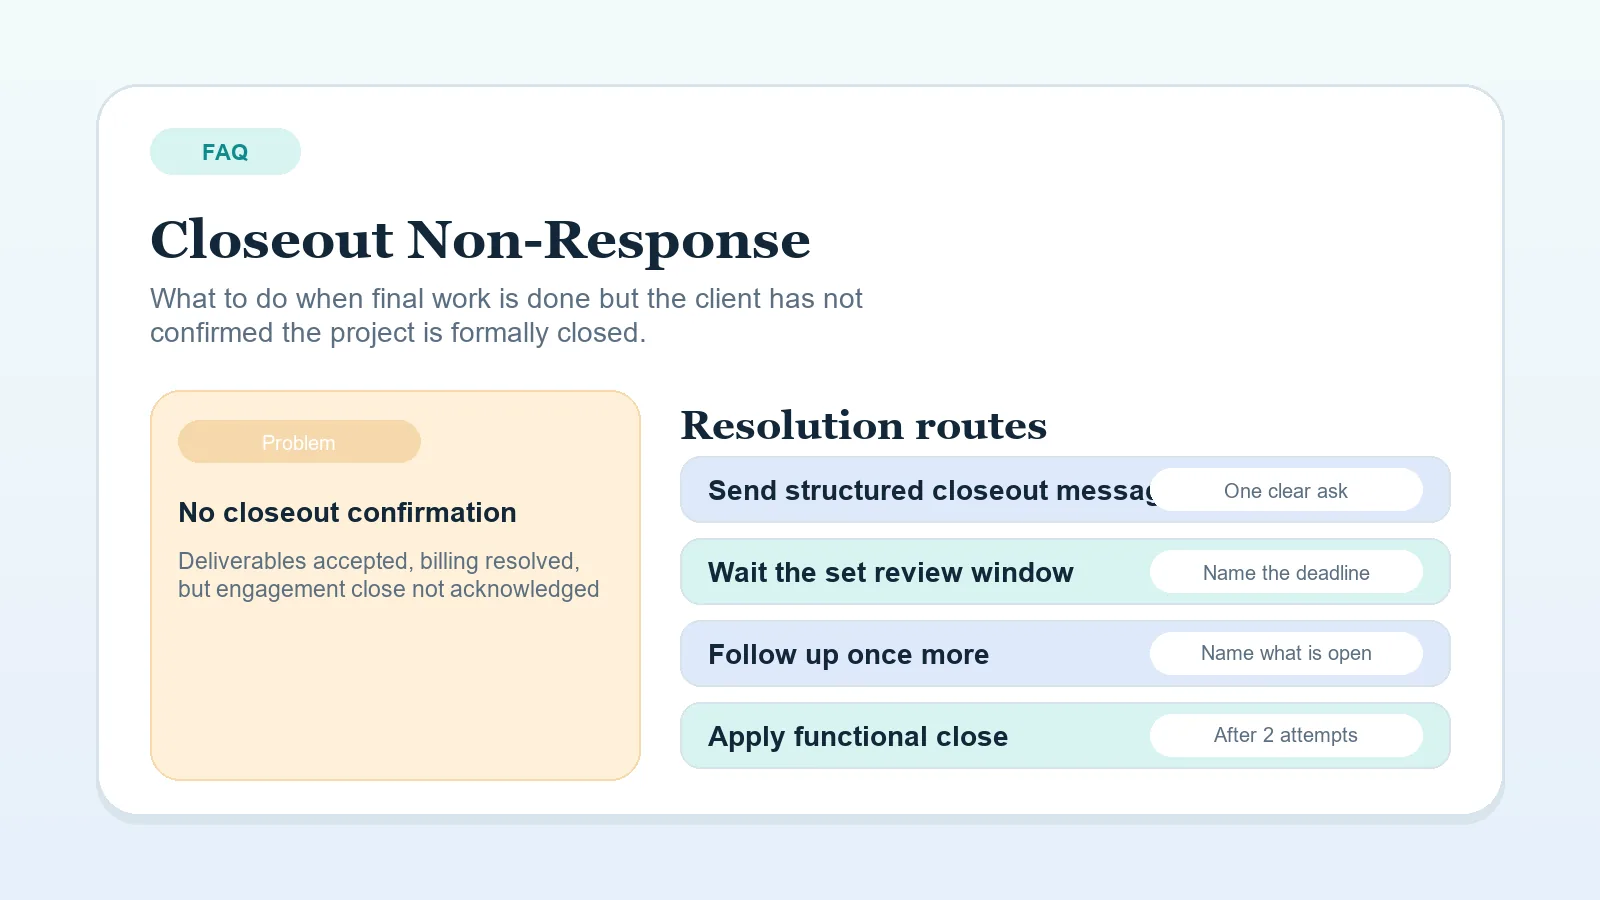
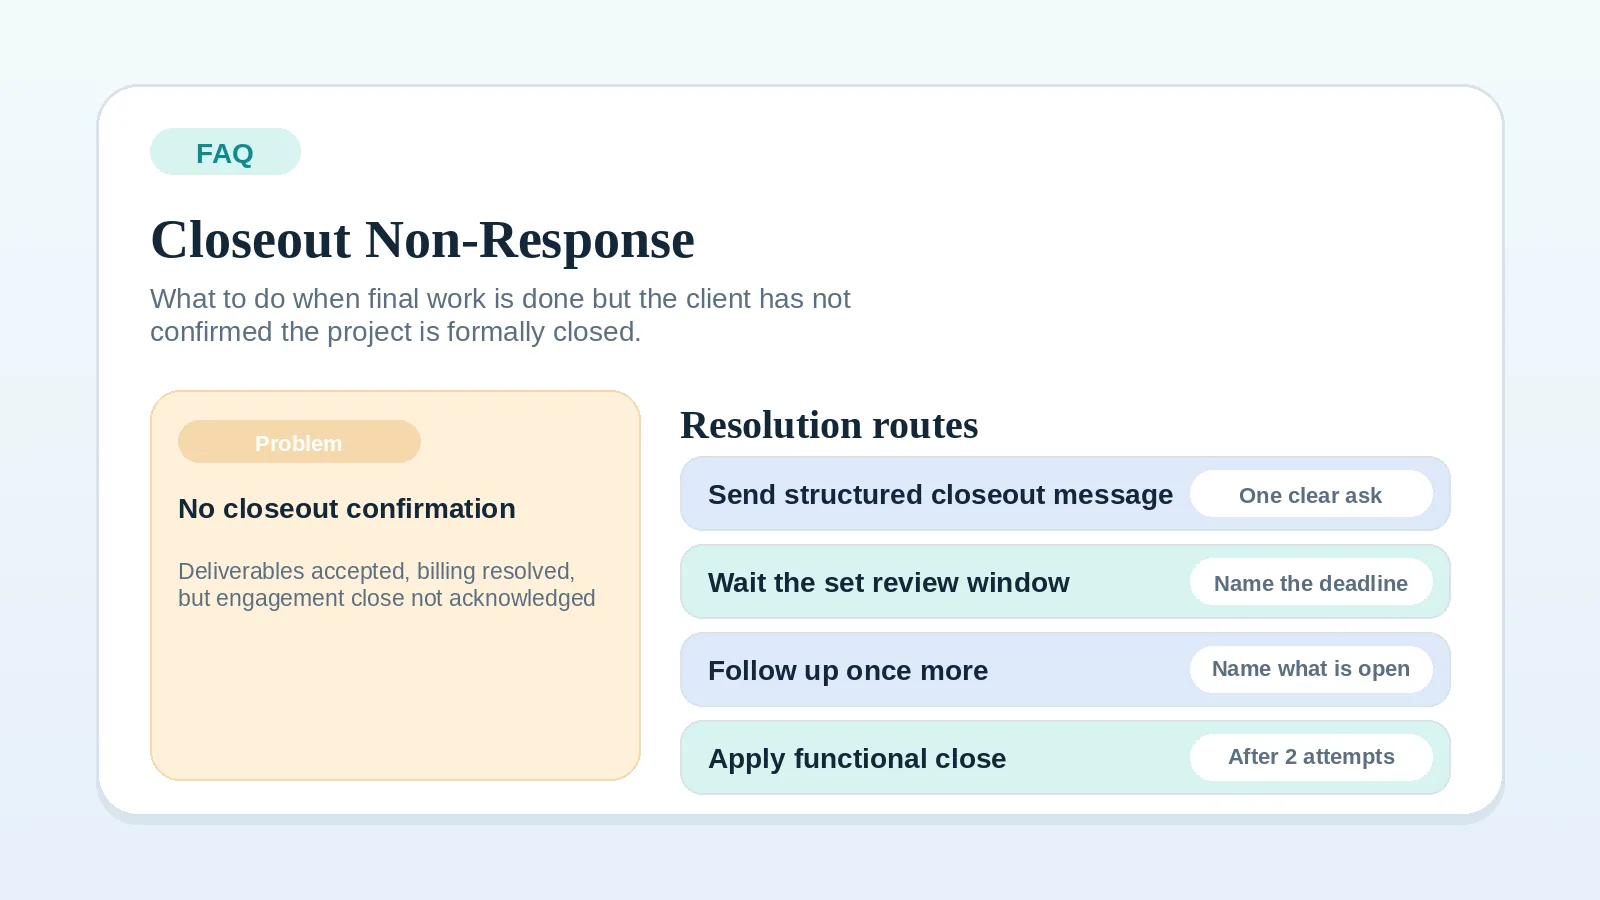
Improve feature image consistency

diff --git a/tools/feature-images/feature_images/templates/faq_card.py b/tools/feature-images/feature_images/templates/faq_card.py
@@ -6,24 +6,24 @@ def render_faq_card(spec, context):
     helpers = context["helpers"]
 
     helpers["shadowed_box"](draw, (96, 84, 1504, 816), palette["frame"], palette["stroke"], palette["shadow"], radius=42)
-    helpers["pill"](draw, (150, 128, 300, 174), palette["accent_soft"], spec["eyebrow"], fonts["pill"], palette["accent"])
+    helpers["pill"](draw, (150, 128, 300, 174), palette["accent_soft"], spec["eyebrow"], fonts["card_title"], palette["accent"])
     draw.text((150, 208), spec["title"], font=fonts["title"], fill=palette["ink"])
     helpers["draw_text_block"](draw, spec["subtitle"], fonts["subtitle"], palette["muted"], (150, 282, 760, 72), 8, report, "faq subtitle", max_lines=2)
 
     # Left problem box — shows when this FAQ applies
     problem_box = (150, 390, 640, 780)
     helpers["rounded_box"](draw, problem_box, fill=palette["warm_soft"], outline=palette["warm"], width=2, radius=30)
-    helpers["pill"](draw, (178, 420, 420, 462), palette["warm"], "Problem", fonts["small"], palette["frame"])
-    draw.text((178, 496), spec["problem"]["label"], font=fonts["card_title"], fill=palette["ink"])
-    helpers["draw_text_block"](draw, spec["problem"]["condition"], fonts["card_body"], palette["muted"], (178, 548, 428, 72), 6, report, "faq problem condition", max_lines=3)
+    helpers["pill"](draw, (178, 420, 420, 462), palette["warm"], "Problem", fonts["pill"], palette["frame"])
+    helpers["draw_text_block"](draw, spec["problem"]["label"], fonts["card_title"], palette["ink"], (178, 492, 434, 52), 6, report, "faq problem label", max_lines=2)
+    helpers["draw_text_block"](draw, spec["problem"]["condition"], fonts["card_body"], palette["muted"], (178, 558, 428, 80), 6, report, "faq problem condition", max_lines=3)
 
     # Right routes area — where this FAQ routes you
     draw.text((680, 402), "Resolution routes", font=fonts["panel_title"], fill=palette["ink"])
     routes = spec.get("routes", [])
     row_fills = [palette["secondary_soft"], palette["accent_soft"], palette["secondary_soft"], palette["accent_soft"]]
     for index, route in enumerate(routes[:4]):
-        y = 456 + (index * 82)
-        row_box = (680, y, 1450, y + 66)
-        helpers["rounded_box"](draw, row_box, fill=row_fills[index % 2], outline=palette["stroke"], width=2, radius=20)
-        draw.text((708, y + 18), route["label"], font=fonts["card_title"], fill=palette["ink"])
-        helpers["pill"](draw, (1150, y + 12, 1422, y + 54), palette["frame"], route["note"], fonts["small"], palette["muted"])
+        y = 456 + (index * 88)
+        row_box = (680, y, 1450, y + 74)
+        helpers["rounded_box"](draw, row_box, fill=row_fills[index % 2], outline=palette["stroke"], width=2, radius=22)
+        helpers["draw_text_block"](draw, route["label"], fonts["card_title"], palette["ink"], (708, y + 22, 472, 50), 6, report, f"faq route {index}", max_lines=1)
+        helpers["pill"](draw, (1190, y + 14, 1432, y + 60), palette["frame"], route["note"], fonts["pill"], palette["muted"])

diff --git a/TRACKER.md b/TRACKER.md
@@ -10,7 +10,7 @@ Read this after `AGENT.md`. This is the live project tracker for current state, 
 - Priority cluster posture: the workflow cluster remains the strongest first operational path; blueprint and comparison clusters stay downstream of workflow diagnosis.
 - Content structure status: homepage, hubs, cornerstone pages, and support gating have already received multiple tightening passes; support pages should stay subordinate to workflow, blueprint, and comparison pages.
 - Strongest current clusters: client workflow systems, software stack blueprints, workflow comparisons.
-- Current feature-image status: 42 WebPs active across 6 categories (hubs, blueprints, comparisons, templates, glossary, faq); SVG fallbacks remain only for workflow stage pages; Python/Pillow workflow expanded with 3 new templates (`checklist_card`, `concept_map`, `faq_card`) and 15 total data configs in the templates category; the original 4 approved hero WebPs are untouched; all 15 templates/checklists pages now use topic-specific WebP images; `checklist_card` trigger-label text wrapping fixed — 8 of 15 trigger labels overflowed the 294px trigger box; all 15 images regenerated with fix applied; new `client-closeout-no-response-faq.webp` generated for the new closeout FAQ; checklist image readability pass completed 2026-05-02 — step labels enlarged from 28px to 40px, tag pills enlarged from 20px to 28px, row height increased, step labels shortened to 4–6 words for card-size legibility; `fonts.py` updated to resolve real fonts on Linux (LiberationSans-Bold, DejaVuSans-Bold) so generated images use proper typefaces instead of the bitmap fallback; four images regenerated: `workflow-diagnostic-checklist.webp`, `stack-decision-readiness-checklist.webp`, `client-workflow-health-check.webp`, `approval-billing-readiness-checklist.webp`.
+- Current feature-image status: 57 WebPs active across 6 categories (hubs, blueprints, comparisons, templates, glossary, faq, workflows); SVG fallbacks now replaced with WebP for all 4 workflow stage pages; `faq_card.py` fixed — route labels now use `draw_text_block` (overflow-safe), eyebrow pill normalized to `card_title` (28px), route note pills enlarged to `pill` (22px), row height increased from 66px to 74px; all 7 FAQ images regenerated; all 15 remaining checklist/worksheet images regenerated with the updated `checklist_card.py` (40px step labels, 28px tag pills); 4 new workflow WebPs generated (client-onboarding, milestone-delivery, invoice-payment, client-offboarding) using `workflow_map` template; front matter updated for 4 workflow stage pages to reference `.webp` paths.
 - Current build/deploy status: Cloudflare Pages builds from source, and `public/` is generated output that should remain ignored and untracked.
 - Current repo workflow: read `AGENT.md`, read `TRACKER.md`, make a scoped change, update `TRACKER.md`, then commit and push if successful.
 - Current operating rhythm: Claude Code is the daily content/improvement tool; Codex is the default weekly review/fix tool and the monthly deeper audit tool; daily Codex use is reserved for heavy build weeks or pre-AdSense submission.
@@ -66,6 +66,8 @@ Priority URLs to monitor:
 - See `project-docs/BUILD-VALIDATION.md` for the full build/validation reference.
 
 ## Recent completed passes
+
+- 2026-05-03 feature image audit and consistency pass: reviewed FAQ cards, checklist/template cards, workflow guide cards, and workflow starter pack/supporting hub cards; root causes found: (1) `faq_card.py` used `draw.text()` directly for route labels and problem label — overflow risk for longer labels; eyebrow pill used `fonts["pill"]` (22px) instead of `fonts["card_title"]` (28px), inconsistent with `checklist_card`; route note pills used `fonts["small"]` (20px), too small at card size; row height was 66px; (2) 15 checklist/worksheet images had not been regenerated with the updated `checklist_card.py` from the 2026-05-02 pass — still rendering at old small font sizes (28px step labels, 20px pills); (3) 4 workflow stage pages (client-onboarding, milestone-delivery, invoice-payment, client-offboarding) used plain SVG fallbacks (2.4KB each, showing only 4 colored boxes with 1-word labels) — under-communicating page purpose; shared fixes: (1) `faq_card.py` updated — `draw_text_block` for route labels and problem label, eyebrow normalized to `card_title` (28px), route note pills enlarged to `pill` (22px), row height increased to 74px, row spacing updated to 88; (2) 4 JSON workflow data configs created under `tools/feature-images/feature_images/data/workflows/` using `workflow_map` template with 4-stage flows and two supporting note boxes; per-image work: 7 FAQ images regenerated with improved `faq_card.py`; 15 remaining checklist/worksheet images regenerated with the updated `checklist_card.py` (40px step labels, 28px pills, 74px rows); 4 new workflow WebPs generated; front matter updated for 4 workflow stage pages from `.svg` to `.webp`; all 26 images generated with no warnings; filenames and front matter references stable for the 15 checklist regenerations; 4 workflow pages reference new WebP paths; validation: `git diff --check` clean; Hugo build clean with Hugo v0.161.1+extended, 86 pages, no errors, no warnings; `public/` remained ignored/generated; files changed: `tools/feature-images/feature_images/templates/faq_card.py`, 4 new workflow data configs, 7 FAQ WebPs, 15 template/checklist WebPs, 4 new workflow WebPs, 4 content front matter files, `TRACKER.md`; next recommended action: wait for the next GSC data cycle before another SEO response pass.
 
 - 2026-05-02 template/checklist image readability pass: four `checklist_card` images had text too small to read at card display size; step row labels were 28px (card_title), tag pills were 20px (small font), and row height was 66px; fixes: (1) `checklist_card.py` redesigned — step labels now use 40px panel_title font, tag pills use 28px card_title font, row height increased to 74px, trigger box widened and repositioned; (2) `fonts.py` updated to resolve real system fonts on Linux (LiberationSans-Bold and DejaVuSans-Bold via absolute paths) so images use proper typefaces instead of the Pillow bitmap fallback; (3) four JSON data configs updated with shorter step labels (4–6 words) to fit the 40px font without overflow; all four images regenerated with no warnings: `workflow-diagnostic-checklist.webp` (43.5K), `stack-decision-readiness-checklist.webp` (46.2K), `client-workflow-health-check.webp` (44.0K), `approval-billing-readiness-checklist.webp` (46.7K); filenames and front matter references unchanged; validation: `git diff --check` clean; Hugo build clean with Hugo v0.161.1+extended, 86 pages, no errors, no warnings; `public/` remained ignored/generated; files changed: `tools/feature-images/feature_images/templates/checklist_card.py`, `tools/feature-images/feature_images/fonts.py`, four JSON data configs under `tools/feature-images/feature_images/data/templates/`, four `.webp` files under `static/images/features/templates/`, `TRACKER.md`; next recommended action: wait for the next GSC data cycle before another SEO response pass.
 

diff --git a/content/client-workflow-systems/client-offboarding-workflow-for-freelancers-and-solo-service-businesses.md b/content/client-workflow-systems/client-offboarding-workflow-for-freelancers-and-solo-service-businesses.md
@@ -2,7 +2,7 @@
 title = "Client Offboarding Workflow for Freelancers and Solo Service Businesses"
 description = "A structured offboarding workflow for solo service businesses that need cleaner closeout timing, final signoff, invoice closure, documentation capture, and future-opportunity handling."
 summary = "Use this workflow to close engagements cleanly, secure final signoff, finish billing, capture outcomes, request testimonials at the right time, and archive the project without loose ends."
-feature_image = "/images/features/workflows/client-offboarding-workflow.svg"
+feature_image = "/images/features/workflows/client-offboarding-workflow.webp"
 feature_image_alt = "Editorial workflow illustration representing closeout steps, signoff, invoice closure, archival, and testimonial timing."
 draft = false
 date = 2026-04-08T00:00:00Z

diff --git a/content/client-workflow-systems/invoice-and-payment-workflow-setup-for-freelancers-and-consultants.md b/content/client-workflow-systems/invoice-and-payment-workflow-setup-for-freelancers-and-consultants.md
@@ -2,7 +2,7 @@
 title = "Invoice and Payment Workflow Setup for Freelancers and Consultants"
 description = "An invoice and payment workflow for freelancers and consultants who need clearer billing triggers, follow-up rules, and payment visibility after delivery."
 summary = "Use this guide to connect invoices to milestones, keep payment status visible, and reduce cash-flow friction with clearer billing operations."
-feature_image = "/images/features/workflows/invoice-payment-workflow.svg"
+feature_image = "/images/features/workflows/invoice-payment-workflow.webp"
 feature_image_alt = "Editorial workflow illustration representing milestone billing, payment status, and reminder cadence."
 draft = false
 date = 2026-03-30T00:00:00Z

diff --git a/content/client-workflow-systems/client-onboarding-workflow-for-freelancers-and-consultants.md b/content/client-workflow-systems/client-onboarding-workflow-for-freelancers-and-consultants.md
@@ -2,7 +2,7 @@
 title = "Client Onboarding Workflow for Freelancers and Consultants"
 description = "A client onboarding workflow for freelancers and consultants who need clearer kickoff readiness, access setup, and first-milestone control."
 summary = "Use this guide to turn a signed project into a kickoff-ready client setup with clear owners, dates, communication rules, and first-milestone controls."
-feature_image = "/images/features/workflows/client-onboarding-workflow.svg"
+feature_image = "/images/features/workflows/client-onboarding-workflow.webp"
 feature_image_alt = "Editorial workflow illustration representing agreement handoff, kickoff readiness, and first milestone setup."
 draft = false
 date = 2026-03-28T00:00:00Z

diff --git a/content/client-workflow-systems/milestone-delivery-workflow-for-solo-service-businesses.md b/content/client-workflow-systems/milestone-delivery-workflow-for-solo-service-businesses.md
@@ -2,7 +2,7 @@
 title = "Milestone Delivery Workflow for Solo Service Businesses"
 description = "A milestone delivery workflow for solo service businesses that need clearer execution control, review rules, and approval-ready handoffs during active work."
 summary = "Use this guide to run milestone-based delivery with clearer status, dependencies, QA, approvals, and client handoff control."
-feature_image = "/images/features/workflows/milestone-delivery-workflow.svg"
+feature_image = "/images/features/workflows/milestone-delivery-workflow.webp"
 feature_image_alt = "Editorial workflow illustration representing milestone states, QA, and approval-ready client handoff."
 draft = false
 date = 2026-03-31T00:00:00Z
